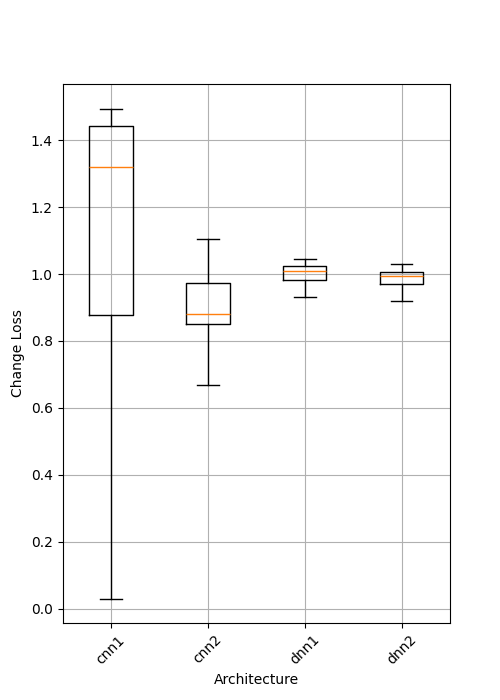
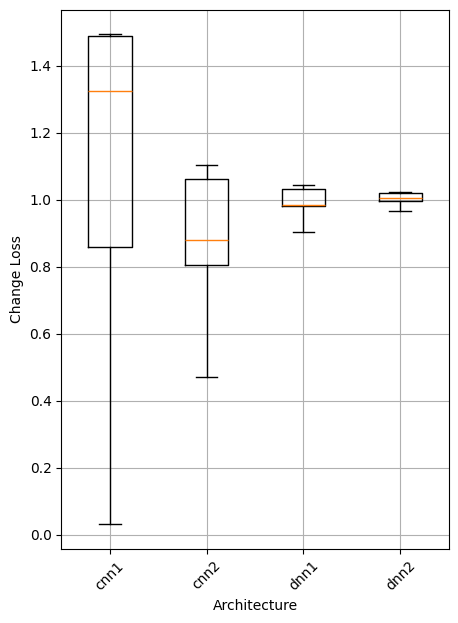
18.02.2024

diff --git a/figures/Mutations.py b/figures/Mutations.py
@@ -3,49 +3,49 @@ import matplotlib.pyplot as plt
 
 df = pd.read_hdf("../processed_data/concatenated_data.h5", key="df")
 
-df_not_trained = df[(df.trained_between_iterations == False) & (df.epoch <= 5) & (df.initial_epochs == 1)].groupby('dataset')
-df_trained = df[(df.trained_between_iterations == True) & (df.epoch <= 10) & (df.initial_epochs == 1)].groupby('dataset')
+df_not_trained = df[(df.trained_between_iterations == False) & (df.epoch <= 5) & (df.initial_epochs == 1)].groupby('mutation_function')
+df_trained = df[(df.trained_between_iterations == True) & (df.epoch <= 10) & (df.initial_epochs == 1)].groupby('mutation_function')
 
-plt.figure(figsize=(5, 7))
+plt.figure(figsize=(5, 5))
 labels_trained = [name for name, _ in df_trained]
 data_trained = [group['change_accuracy'].tolist() for name, group in df_trained]
 plt.boxplot(data_trained, labels=labels_trained, showfliers=False)
-plt.xlabel('Dataset')
+plt.xlabel('Break Condition')
 plt.ylabel('Change Accuracy')
-plt.xticks(rotation=45)  # Adjust rotation as needed
 plt.grid()
-plt.savefig('figures/Dataset_Trained_accuracy.png', bbox_inches='tight')
+plt.xticks(rotation=90)
+plt.savefig('figures/Mutatation_Trained_accuracy.png', bbox_inches='tight')
 plt.show()
 
-plt.figure(figsize=(5, 7))
+plt.figure(figsize=(5, 5))
 labels_not_trained = [name for name, _ in df_not_trained]
 data_not_trained = [group['change_accuracy'].tolist() for name, group in df_not_trained]
 plt.boxplot(data_not_trained, labels=labels_not_trained, showfliers=False)
-plt.xlabel('Dataset')
+plt.xlabel('Break Condition')
 plt.ylabel('Change Accuracy')
-plt.xticks(rotation=45)  # Adjust rotation as needed
+plt.xticks(rotation=90)  # Adjust rotation as needed
 plt.grid()
-plt.savefig('figures/Dataset_NotTrained_accuracy.png', bbox_inches='tight')
+plt.savefig('figures/Mutatation_NotTrained_accuracy.png', bbox_inches='tight')
 plt.show()
 
-plt.figure(figsize=(5, 7))
+plt.figure(figsize=(5, 5))
 labels_trained = [name for name, _ in df_trained]
 data_trained = [group['change_loss'].tolist() for name, group in df_trained]
 plt.boxplot(data_trained, labels=labels_trained, showfliers=False)
-plt.xlabel('Dataset')
+plt.xlabel('Break Condition')
 plt.ylabel('Change Loss')
-plt.xticks(rotation=45)  # Adjust rotation as needed
+plt.xticks(rotation=90)  # Adjust rotation as needed
 plt.grid()
-plt.savefig('figures/Dataset_Trained_loss.png', bbox_inches='tight')
+plt.savefig('figures/Mutatation_Trained_loss.png', bbox_inches='tight')
 plt.show()
 
-plt.figure(figsize=(5, 7))
+plt.figure(figsize=(5, 5))
 labels_not_trained = [name for name, _ in df_not_trained]
 data_not_trained = [group['change_loss'].tolist() for name, group in df_not_trained]
 plt.boxplot(data_not_trained, labels=labels_not_trained, showfliers=False)
-plt.xlabel('Dataset')
+plt.xlabel('Break Condition')
 plt.ylabel('Change Loss')
-plt.xticks(rotation=45)  # Adjust rotation as needed
+plt.xticks(rotation=90)  # Adjust rotation as needed
 plt.grid()
-plt.savefig('figures/Dataset_NotTrained_loss.png', bbox_inches='tight')
+plt.savefig('figures/Mutatation_NotTrained_loss.png', bbox_inches='tight')
 plt.show()

diff --git a/figures/SuspMeassure.py b/figures/SuspMeassure.py
@@ -4,8 +4,8 @@ import matplotlib.pyplot as plt
 df = pd.read_hdf("../processed_data/concatenated_data.h5", key="df")
 
 
-df_not_trained = df[(df.trained_between_iterations == False) & (df.epoch <= 5)].groupby('approach_analysis')
-df_trained = df[(df.trained_between_iterations == True) & (df.epoch <= 10)].groupby('approach_analysis')
+df_not_trained = df[(df.trained_between_iterations == False) & (df.epoch <= 5) & (df.initial_epochs == 1)].groupby('approach_analysis')
+df_trained = df[(df.trained_between_iterations == True) & (df.epoch <= 10) & (df.initial_epochs == 1)].groupby('approach_analysis')
 
 plt.figure(figsize=(5, 8))
 labels_trained = [name for name, _ in df_trained]
@@ -15,6 +15,7 @@ plt.xlabel('Suspiciousness Meassure')
 plt.ylabel('Change Accuracy')
 plt.xticks(rotation=45)  # Adjust rotation as needed
 plt.grid()
+plt.savefig('figures/Meassure_Trained_accuracy.png', bbox_inches='tight')
 plt.show()
 
 plt.figure(figsize=(5, 8))
@@ -25,6 +26,7 @@ plt.xlabel('Suspiciousness Meassure')
 plt.ylabel('Change Accuracy')
 plt.xticks(rotation=45)  # Adjust rotation as needed
 plt.grid()
+plt.savefig('figures/Meassure_NotTrained_accuracy.png', bbox_inches='tight')
 plt.show()
 
 plt.figure(figsize=(5, 8))
@@ -35,6 +37,7 @@ plt.xlabel('Suspiciousness Meassure')
 plt.ylabel('Change Loss')
 plt.xticks(rotation=45)  # Adjust rotation as needed
 plt.grid()
+plt.savefig('figures/Meassure_Trained_loss.png', bbox_inches='tight')
 plt.show()
 
 plt.figure(figsize=(5, 8))
@@ -45,4 +48,5 @@ plt.xlabel('Suspiciousness Meassure')
 plt.ylabel('Change Loss')
 plt.xticks(rotation=45)  # Adjust rotation as needed
 plt.grid()
+plt.savefig('figures/Meassure_NotTrained_loss.png', bbox_inches='tight')
 plt.show()

diff --git a/figures/Architecture.py b/figures/Architecture.py
@@ -3,8 +3,8 @@ import matplotlib.pyplot as plt
 
 df = pd.read_hdf("../processed_data/concatenated_data.h5", key="df")
 
-df_not_trained = df[(df.trained_between_iterations == False) & (df.epoch <= 5)].groupby('architecture')
-df_trained = df[(df.trained_between_iterations == True) & (df.epoch <= 10)].groupby('architecture')
+df_not_trained = df[(df.trained_between_iterations == False) & (df.epoch <= 5) & (df.initial_epochs == 1)].groupby('architecture')
+df_trained = df[(df.trained_between_iterations == True) & (df.epoch <= 10) & (df.initial_epochs == 1)].groupby('architecture')
 
 plt.figure(figsize=(5, 7))
 labels_trained = [name for name, _ in df_trained]
@@ -16,6 +16,7 @@ plt.xlabel('Architecture')
 plt.ylabel('Change Accuracy')
 plt.xticks(rotation=45)  # Adjust rotation as needed
 plt.grid()
+plt.savefig('figures/Architecture_Trained_accuracy.png', bbox_inches='tight')
 plt.show()
 
 plt.figure(figsize=(5, 7))
@@ -28,6 +29,7 @@ plt.xlabel('Architecture')
 plt.ylabel('Change Accuracy')
 plt.xticks(rotation=45)  # Adjust rotation as needed
 plt.grid()
+plt.savefig('figures/Architecture_NotTrained_accuracy.png', bbox_inches='tight')
 plt.show()
 
 plt.figure(figsize=(5, 7))
@@ -40,6 +42,7 @@ plt.xlabel('Architecture')
 plt.ylabel('Change Loss')
 plt.xticks(rotation=45)  # Adjust rotation as needed
 plt.grid()
+plt.savefig('figures/Architecture_Trained_loss.png', bbox_inches='tight')
 plt.show()
 
 plt.figure(figsize=(5, 7))
@@ -52,4 +55,5 @@ plt.xlabel('Architecture')
 plt.ylabel('Change Loss')
 plt.xticks(rotation=45)  # Adjust rotation as needed
 plt.grid()
+plt.savefig('figures/Architecture_NotTrained_loss.png', bbox_inches='tight')
 plt.show()

diff --git a/figures/Offset.py b/figures/Offset.py
@@ -5,8 +5,8 @@ df = pd.read_hdf("../processed_data/concatenated_data.h5", key="df")
 
 df = df[df.epoch <= 20]
 
-df_not_trained = df[(df.trained_between_iterations == False) & (df.epoch <= 5)].groupby('regression_loss_offset')
-df_trained = df[(df.trained_between_iterations == True) & (df.epoch <= 10)].groupby('regression_loss_offset')
+df_not_trained = df[(df.trained_between_iterations == False) & (df.epoch <= 5) & (df.initial_epochs == 1)].groupby('regression_loss_offset')
+df_trained = df[(df.trained_between_iterations == True) & (df.epoch <= 10) & (df.initial_epochs == 1)].groupby('regression_loss_offset')
 
 plt.figure(figsize=(5, 6))
 labels_trained = [name for name, _ in df_trained]
@@ -16,6 +16,7 @@ plt.xlabel('Offset')
 plt.ylabel('Change Accuracy')
 plt.xticks(rotation=45)  # Adjust rotation as needed
 plt.grid()
+plt.savefig('figures/Offset_Trained_accuracy.png', bbox_inches='tight')
 plt.show()
 
 plt.figure(figsize=(5, 6))
@@ -26,6 +27,7 @@ plt.xlabel('Offset')
 plt.ylabel('Change Accuracy')
 plt.xticks(rotation=45)  # Adjust rotation as needed
 plt.grid()
+plt.savefig('figures/Offset_NotTrained_accuracy.png', bbox_inches='tight')
 plt.show()
 
 plt.figure(figsize=(5, 6))
@@ -36,6 +38,7 @@ plt.xlabel('Offset')
 plt.ylabel('Change Loss')
 plt.xticks(rotation=45)  # Adjust rotation as needed
 plt.grid()
+plt.savefig('figures/Offset_Trained_loss.png', bbox_inches='tight')
 plt.show()
 
 plt.figure(figsize=(5, 6))
@@ -46,4 +49,5 @@ plt.xlabel('Offset')
 plt.ylabel('Change Loss')
 plt.xticks(rotation=45)  # Adjust rotation as needed
 plt.grid()
+plt.savefig('figures/Offset_NotTrained_loss.png', bbox_inches='tight')
 plt.show()

diff --git a/figures/BreakCondition.py b/figures/BreakCondition.py
@@ -3,8 +3,8 @@ import matplotlib.pyplot as plt
 
 df = pd.read_hdf("../processed_data/concatenated_data.h5", key="df")
 
-df_not_trained = df[(df.trained_between_iterations == False) & (df.epoch <= 5)].groupby('break_condition')
-df_trained = df[(df.trained_between_iterations == True) & (df.epoch <= 10)].groupby('break_condition')
+df_not_trained = df[(df.trained_between_iterations == False) & (df.epoch <= 5) & (df.initial_epochs == 1)].groupby('break_condition')
+df_trained = df[(df.trained_between_iterations == True) & (df.epoch <= 10) & (df.initial_epochs == 1)].groupby('break_condition')
 
 plt.figure(figsize=(5, 12))
 labels_trained = [name for name, _ in df_trained]

diff --git a/Bachelorarbeit/chapters/results.tex b/Bachelorarbeit/chapters/results.tex
@@ -69,6 +69,7 @@ Only till 20 Epochs, afterwards 5 epochs for untrained and 10 for trained models
     \label{fig:decay_Notraining}
 \end{figure}
 \section{Effects of the extend of pre Training}\label{sec:effects-of-the-extend-of-pre-training}
+Because of the bad results for 6 epochs, after that only 1 epoch.
 \begin{figure}
     \begin{subfigure}{0.5\textwidth}
         \centering
